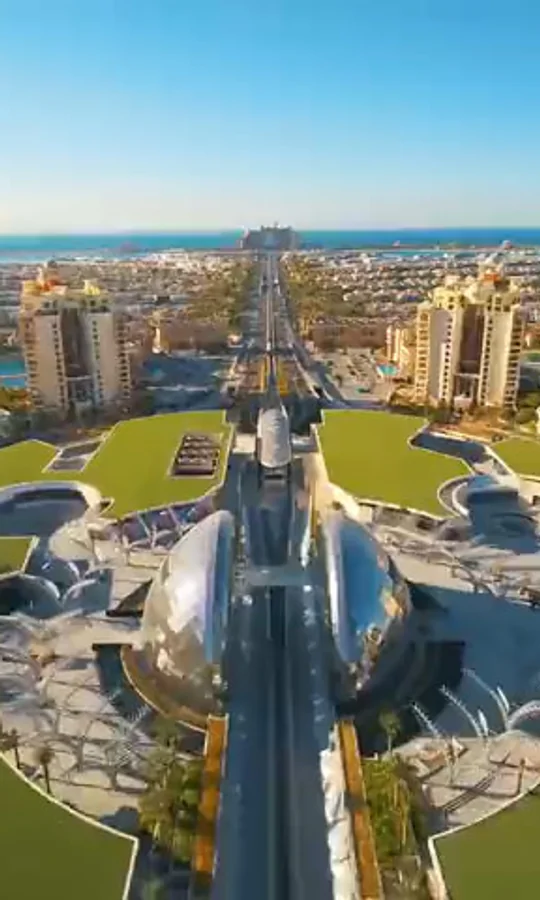
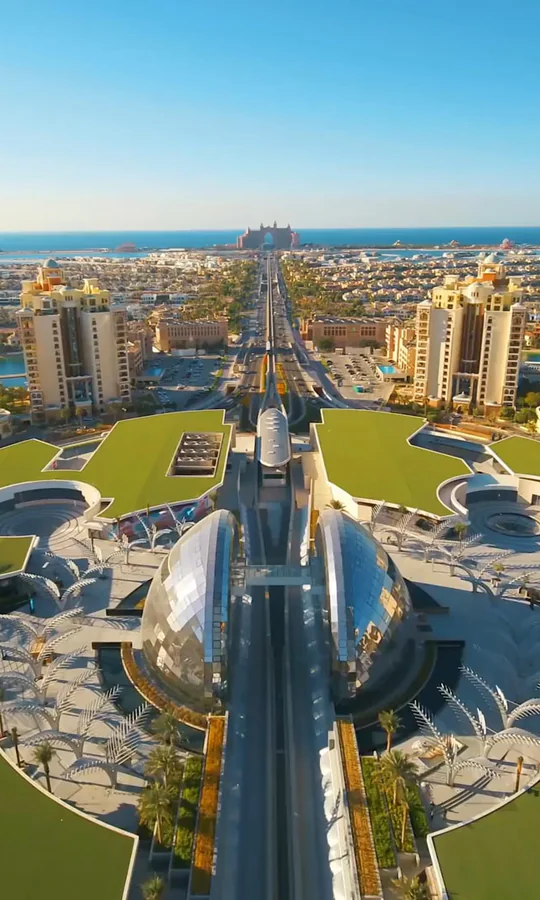
feat(hero): play only the client's original video
Owner decision: no lighter renditions and no trimming. client-hero-1280/854.mp4 and
encode-hero-videos.sh are removed. src/lib/hero-video.ts decides who plays it (Save-Data,
2G/3G, under 10 Mbps or reduced motion keep the frame-0 poster) with a 10% band for
Chrome's privacy noise on its capped downlink (measured 9.1-10 on a fast link).

Changed region(s): [[0.0, 0.2489, 1.0, 1.0], [0.5926, 0.7467, 1.0, 1.0], [0.3556, 0.9956, 0.3852, 1.0]]

diff --git a/web/src/components/home/hero-video-backdrop.tsx b/web/src/components/home/hero-video-backdrop.tsx
@@ -3,25 +3,18 @@
 import { useEffect, useRef, useState, useSyncExternalStore } from 'react'
 import { preload } from 'react-dom'
 import { ResponsiveImg, getPortraitImage, getResponsiveImage } from '@/components/ui/responsive-img'
+import { HERO_VIDEO_SRC, shouldPlayHeroVideo } from '@/lib/hero-video'
 
 /**
- * Official client hero reel (Dubai & Palm Jumeirah aerials, 74 s loop):
- *   /videos/hero/client-hero-original.mp4  the client's file as delivered (~150 MB, 1080p60),
- *       only on big screens with a fast link. Prepared by scripts/prepare-hero-original.sh
- *       (bit-for-bit copy, faststart). Git-ignored (over GitHub's 100 MB limit), so it exists
- *       only where it was placed: the build checks for it (`hasOriginal`).
- *   /videos/hero/client-hero-1280.mp4      desktop fallback (~9 MB)
- *   /videos/hero/client-hero-854.mp4       phones / 3G (~4 MB)
+ * Official client hero reel (Dubai & Palm Jumeirah aerials, 74 s loop), played from the client's
+ * original file exactly as delivered (see `@/lib/hero-video`).
  *
- * Seamless start: the poster IS frame 0 of the rendition the device plays (landscape from the
- * 1280 file, phone crop from the 854 file), both layers share the same object-fit/position, and
- * the video is switched on — with no fade — only once it has presented its first frame. So the
- * still simply starts moving.
+ * Seamless start: the poster IS frame 0 of that file (scripts/prepare-hero-original.sh cuts it,
+ * landscape and phone crop), both layers share the same object-fit/position, and the video is
+ * switched on, with no fade, only once it has presented its first frame. So the still simply
+ * starts moving. With no video (file missing, Save-Data, slow link, reduced motion, playback
+ * error) the poster stays: the same picture, in full quality.
  */
-type Rendition = 'original' | '1280' | '854'
-
-const videoSrcFor = (rendition: Rendition) => `/videos/hero/client-hero-${rendition}.mp4`
-
 const HERO_POSTER = '/images/client-video-frame-0.jpg'
 const PORTRAIT_MEDIA = '(max-width: 700px) and (orientation: portrait)'
 const LANDSCAPE_MEDIA = '(min-width: 701px), (orientation: landscape)'
@@ -33,20 +26,15 @@ interface NetworkInformationLike {
   downlink?: number
 }
 
-/**
- * Decides whether — and at what size — the background video may load.
- * Returns null when video should be skipped entirely (Save-Data, 2G).
- */
-function pickRendition(hasOriginal: boolean): Rendition | null {
+function canPlayHere(hasVideo: boolean): boolean {
   const connection = (navigator as Navigator & { connection?: NetworkInformationLike }).connection
-  if (connection?.saveData) return null
-  if (connection?.effectiveType && /(^|-)2g$/.test(connection.effectiveType)) return null
-  const lite = window.matchMedia('(max-width: 900px)').matches || connection?.effectiveType === '3g'
-  if (lite) return '854'
-  // On localhost or fast connections, play the client's original 1080p video as delivered.
-  const isLocal = typeof window !== 'undefined' && (window.location.hostname === 'localhost' || window.location.hostname === '127.0.0.1')
-  const slow = !isLocal && connection?.downlink !== undefined && connection.downlink < 5
-  return hasOriginal && !slow ? 'original' : '1280'
+  return shouldPlayHeroVideo({
+    hasVideo,
+    saveData: connection?.saveData,
+    effectiveType: connection?.effectiveType,
+    downlink: connection?.downlink,
+    hostname: window.location.hostname,
+  })
 }
 
 const REDUCED_MOTION_QUERY = '(prefers-reduced-motion: reduce)'
@@ -60,7 +48,7 @@ function subscribeToReducedMotion(onChange: () => void) {
 const getReducedMotion = () => window.matchMedia(REDUCED_MOTION_QUERY).matches
 const getReducedMotionOnServer = () => false
 
-export function HeroVideoBackdrop({ hasOriginal = false }: { hasOriginal?: boolean }) {
+export function HeroVideoBackdrop({ hasVideo = false }: { hasVideo?: boolean }) {
   const [videoReady, setVideoReady] = useState(false)
   const videoRef = useRef<HTMLVideoElement | null>(null)
   const backdropRef = useRef<HTMLDivElement | null>(null)
@@ -69,8 +57,8 @@ export function HeroVideoBackdrop({ hasOriginal = false }: { hasOriginal?: boole
     getReducedMotion,
     getReducedMotionOnServer,
   )
-  // Chosen once the poster is painted (Save-Data / 2G → no video).
-  const [rendition, setRendition] = useState<Rendition | null>(null)
+  // Decided once the poster is painted; false = the poster stays.
+  const [playVideo, setPlayVideo] = useState(false)
 
   // Hoists high-priority <link rel="preload"> tags for the poster into <head>,
   // one per art-directed source, so each device fetches exactly one file.
@@ -102,7 +90,7 @@ export function HeroVideoBackdrop({ hasOriginal = false }: { hasOriginal?: boole
     let rafId: number | undefined
     const start = () => {
       if (cancelled) return
-      rafId = requestAnimationFrame(() => setRendition(pickRendition(hasOriginal)))
+      rafId = requestAnimationFrame(() => setPlayVideo(canPlayHere(hasVideo)))
     }
     const img = backdropRef.current?.querySelector<HTMLImageElement>('img.ll-hero-poster')
     if (img) img.decode().then(start, start)
@@ -111,10 +99,10 @@ export function HeroVideoBackdrop({ hasOriginal = false }: { hasOriginal?: boole
       cancelled = true
       if (rafId !== undefined) cancelAnimationFrame(rafId)
     }
-  }, [reducedMotion, hasOriginal])
+  }, [reducedMotion, hasVideo])
 
   useEffect(() => {
-    if (reducedMotion || !rendition) return
+    if (reducedMotion || !playVideo) return
     const v = videoRef.current
     if (!v) return
     let cancelled = false
@@ -167,9 +155,7 @@ export function HeroVideoBackdrop({ hasOriginal = false }: { hasOriginal?: boole
       cancelled = true
       if (frameHandle !== undefined) v.cancelVideoFrameCallback(frameHandle)
     }
-  }, [reducedMotion, rendition])
-
-  const videoSrc = rendition ? videoSrcFor(rendition) : null
+  }, [reducedMotion, playVideo])
 
   return (
     <div ref={backdropRef} className="ll-hero-backdrop" aria-hidden="true">
@@ -186,19 +172,17 @@ export function HeroVideoBackdrop({ hasOriginal = false }: { hasOriginal?: boole
       </picture>
 
       {/* Official client hero video reel: loops continuously */}
-      {!reducedMotion && videoSrc && (
+      {!reducedMotion && playVideo && (
         <video
           ref={videoRef}
-          src={videoSrc}
+          src={HERO_VIDEO_SRC}
           autoPlay
           muted
           loop
           playsInline
           preload="auto"
-          // Original missing on this server (deleted, or not uploaded): use the 1280 version.
-          onError={() => {
-            if (rendition === 'original') setRendition('1280')
-          }}
+          // File missing on this server, or not playable: the poster (same picture) stays.
+          onError={() => setPlayVideo(false)}
           className={`ll-hero-video ${videoReady ? 'is-visible' : ''}`}
         />
       )}

diff --git a/web/src/lib/hero-video.test.ts b/web/src/lib/hero-video.test.ts
@@ -1,0 +1,47 @@
+import { describe, expect, it } from 'vitest'
+import { HERO_MIN_DOWNLINK_MBPS, shouldPlayHeroVideo } from './hero-video'
+
+describe('shouldPlayHeroVideo', () => {
+  const site = { hasVideo: true, hostname: 'leapliving.ae' }
+
+  it('plays when the browser reports nothing (Safari, Firefox)', () => {
+    expect(shouldPlayHeroVideo(site)).toBe(true)
+  })
+
+  it('never plays when the file is not on the server', () => {
+    expect(shouldPlayHeroVideo({ ...site, hasVideo: false })).toBe(false)
+    expect(shouldPlayHeroVideo({ hasVideo: false, hostname: 'localhost' })).toBe(false)
+  })
+
+  it('respects Save-Data, even on localhost', () => {
+    expect(shouldPlayHeroVideo({ ...site, saveData: true })).toBe(false)
+    expect(shouldPlayHeroVideo({ hasVideo: true, hostname: 'localhost', saveData: true })).toBe(
+      false,
+    )
+  })
+
+  it('skips 2G and 3G', () => {
+    for (const effectiveType of ['slow-2g', '2g', '3g']) {
+      expect(shouldPlayHeroVideo({ ...site, effectiveType })).toBe(false)
+    }
+    expect(shouldPlayHeroVideo({ ...site, effectiveType: '4g', downlink: 10 })).toBe(true)
+  })
+
+  it(`needs Chrome's top speed bucket (${HERO_MIN_DOWNLINK_MBPS} Mbps): the file streams at ~16 Mbps`, () => {
+    expect(HERO_MIN_DOWNLINK_MBPS).toBe(10)
+    // Chrome's ±10% privacy noise on a capped 10: still counts as a fast link.
+    expect(shouldPlayHeroVideo({ ...site, downlink: 9.9 })).toBe(true)
+    expect(shouldPlayHeroVideo({ ...site, downlink: 9.1 })).toBe(true)
+    expect(shouldPlayHeroVideo({ ...site, downlink: 8.5 })).toBe(false)
+    expect(shouldPlayHeroVideo({ ...site, downlink: 5 })).toBe(false)
+    expect(shouldPlayHeroVideo({ ...site, downlink: 10 })).toBe(true)
+  })
+
+  it('always plays on a development machine, whatever the speed estimate', () => {
+    for (const hostname of ['localhost', '127.0.0.1']) {
+      expect(
+        shouldPlayHeroVideo({ hasVideo: true, hostname, downlink: 1.2, effectiveType: '3g' }),
+      ).toBe(true)
+    }
+  })
+})

diff --git a/web/src/lib/hero-video.ts b/web/src/lib/hero-video.ts
@@ -1,0 +1,48 @@
+/**
+ * The homepage hero plays ONE video: the client's original file, exactly as delivered
+ * (~150 MB, 1080p60, owner decision 2026-11-17: no lighter re-encoded versions).
+ *
+ * It is git-ignored (over GitHub's 100 MB limit) and placed on the build machine with
+ * scripts/prepare-hero-original.sh. The page checks at build time whether it exists.
+ */
+export const HERO_VIDEO_SRC = '/videos/hero/client-hero-original.mp4'
+
+/**
+ * The original streams at ~16 Mbps. Below 10 Mbps it would keep stopping to buffer, so the
+ * still frame 0 poster stays instead.
+ */
+export const HERO_MIN_DOWNLINK_MBPS = 10
+
+/**
+ * Chrome caps `downlink` at 10 and, for privacy, multiplies it by a random ±10% factor per
+ * site. Measured on an unthrottled link (2026-11-17): 10, 9.9, 9.7, 9.1. A strict `< 10`
+ * check would hide the video from about half of the fastest visitors, so the noise band
+ * counts as 10.
+ */
+const DOWNLINK_NOISE = 0.1
+
+export interface HeroVideoContext {
+  /** Whether the video file exists on this server (checked at build time). */
+  hasVideo: boolean
+  /** `navigator.connection` values. Safari and Firefox expose none of them. */
+  saveData?: boolean
+  effectiveType?: string
+  downlink?: number
+  hostname?: string
+}
+
+const LOCAL_HOSTS = new Set(['localhost', '127.0.0.1', '[::1]'])
+
+/**
+ * Whether the hero video may load. When it may not, the poster (the video's own frame 0, in
+ * full quality) stays on screen, so the visitor still sees the same picture.
+ */
+export function shouldPlayHeroVideo(ctx: HeroVideoContext): boolean {
+  if (!ctx.hasVideo) return false
+  if (ctx.saveData) return false
+  // Development machines always play it, whatever Chrome guesses about the link.
+  if (ctx.hostname && LOCAL_HOSTS.has(ctx.hostname)) return true
+  if (ctx.effectiveType && /(^|-)(2g|3g)$/.test(ctx.effectiveType)) return false
+  if (ctx.downlink !== undefined && ctx.downlink < HERO_MIN_DOWNLINK_MBPS * (1 - DOWNLINK_NOISE)) return false
+  return true
+}
